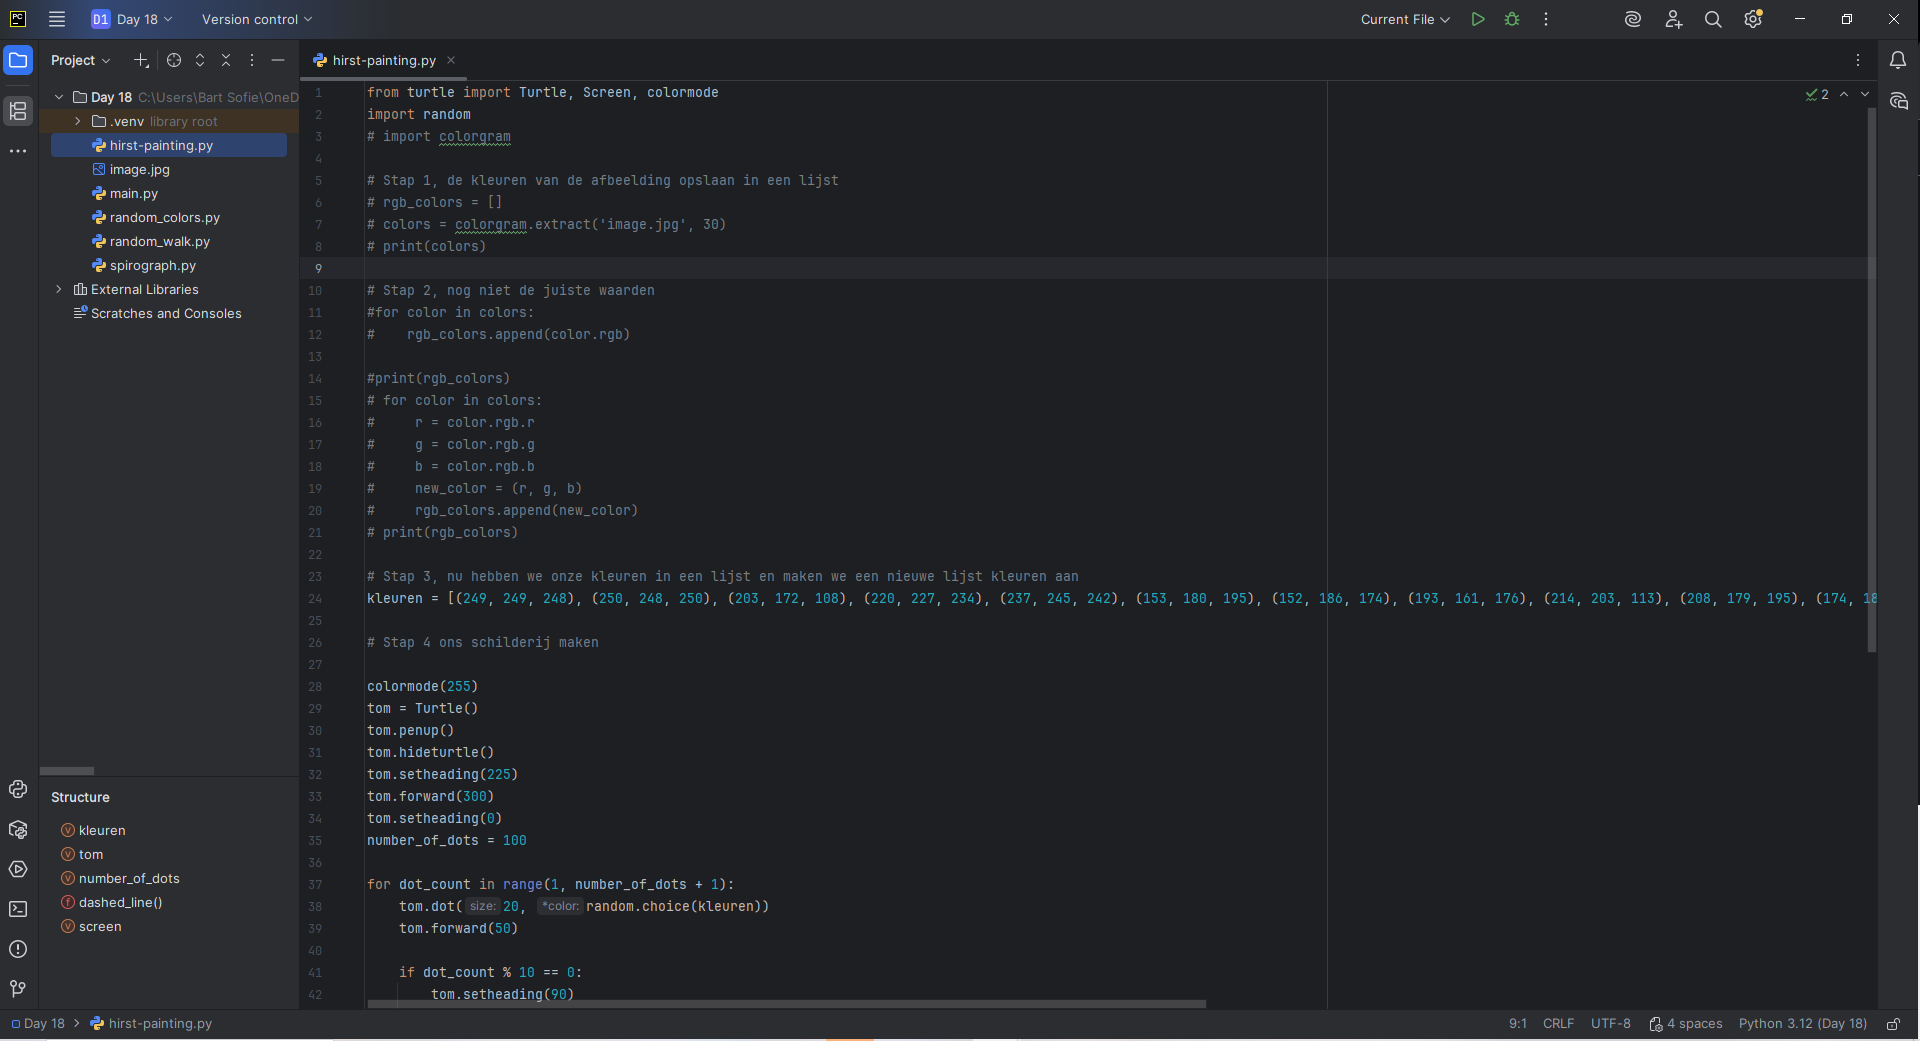
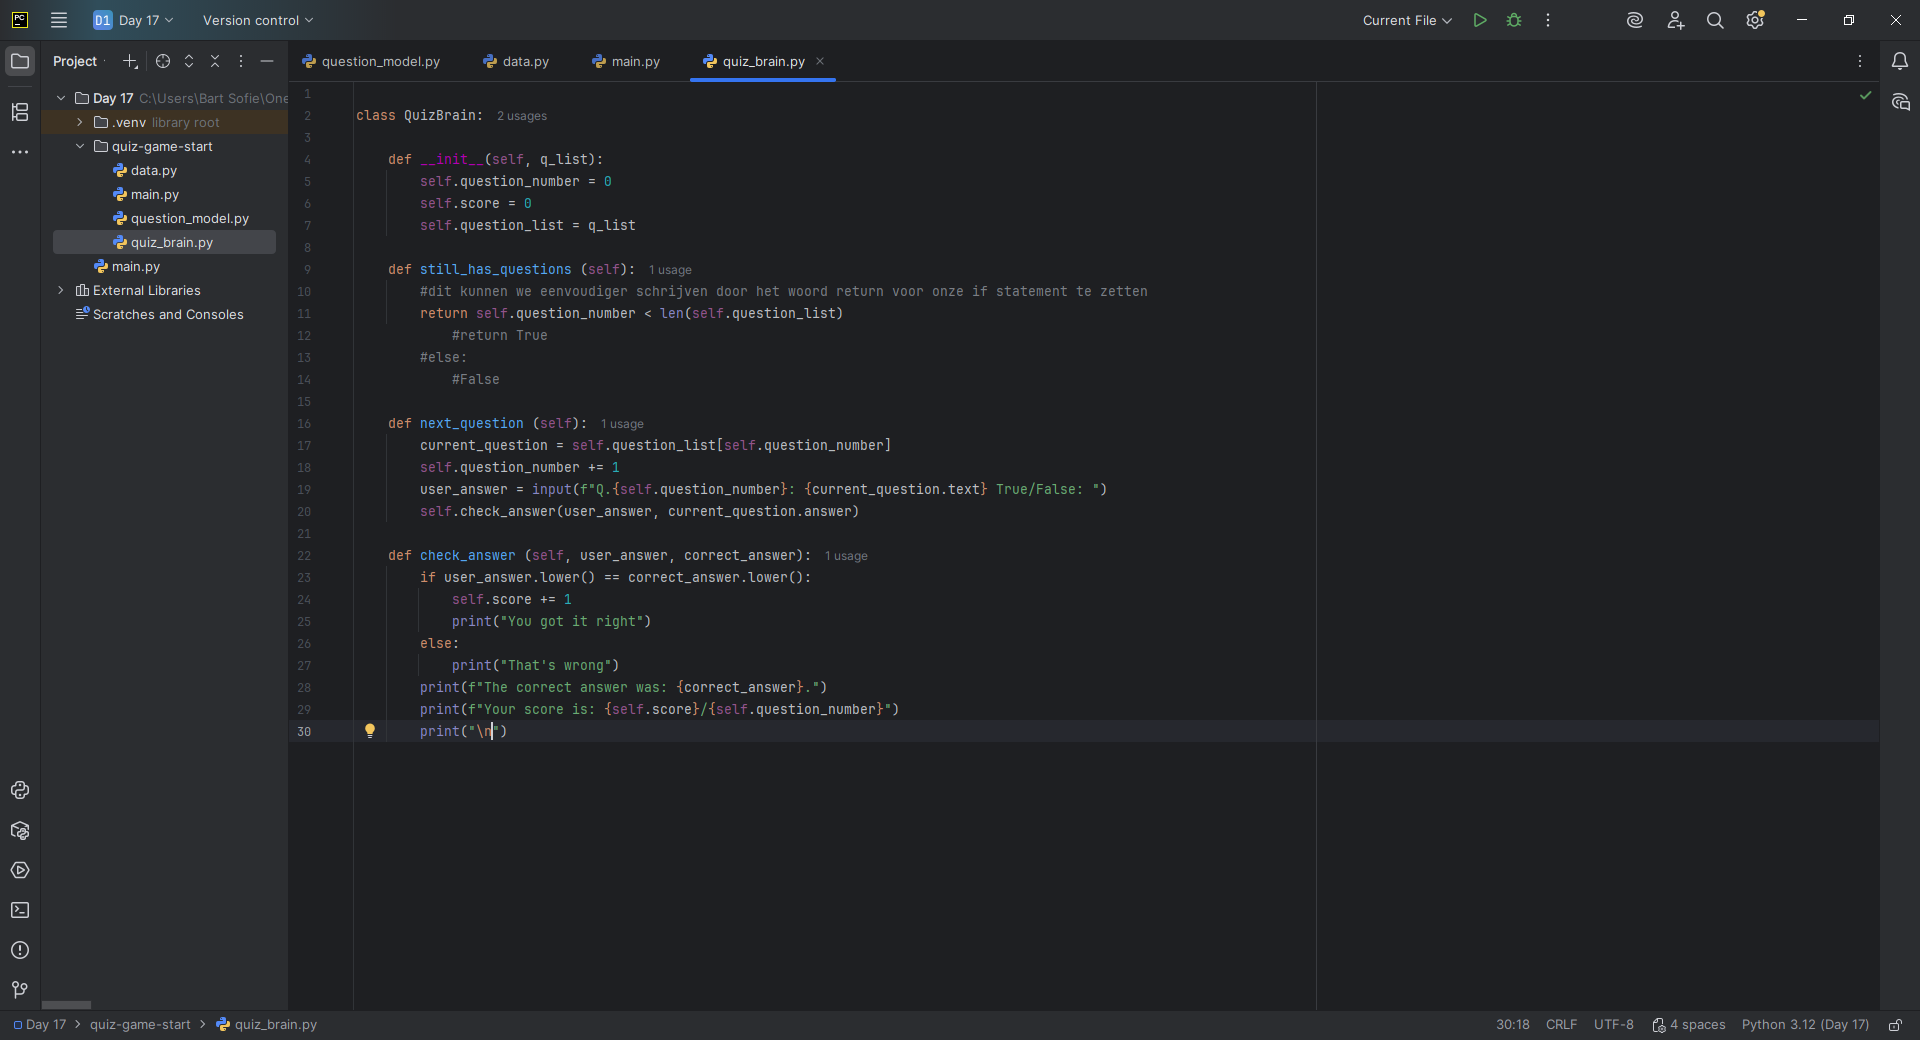
upload dag 19 + aanpassingen dag 17 en dag 18

diff --git a/Logs/25W49.md b/Logs/25W49.md
@@ -1,31 +1,31 @@
 ### 🗓 Week 25W49 (01.12.25 – 04.12.25)
 
 ## 📅 Maandag 01/12
-*Start:* 14:00 | *Einde:* 20:00 | *Dag:* 34
-*Onderwerp:* Tekenen, Tuple, random_walk, spirograph, dots tekenen
+*Start:* 14:00 | *Einde:* 20:00 | *Dag:* 17 <br>
+*Onderwerp:* Quiz Game
 *Printscreen*
 ![Python omgeving](../images/december_2025/maandag_01_december.PNG)
 
 ## 📅 Dinsdag 02/12
-*Start:* 00:00 | *Einde:* 00:00 | *Dag:* 35 
-*Onderwerp:* ...
+*Start:* 00:00 | *Einde:* 00:00 | *Dag:* 18 <br>
+*Onderwerp:*    Tekenen, Tuple, random_walk, spirograph, dots tekenen
 *Printscreen*
-![Python omgeving](../images/oktober_2025/)
+![Python omgeving](../images/december_2025/maandag_02_december.PNG)
 
 ## 📅 Woensdag 03/12
-*Start:* 00:00 | *Einde:* 00:00 | *Dag:* 36 
-*Onderwerp:* ...
+*Start:* 00:00 | *Einde:* 00:00 | *Dag:* 19 <br>
+*Onderwerp:* Schildpadden Race
 *Printscreen*
-![Python omgeving](../images/oktober_2025/)
+![Python omgeving](../images/december_2025/maandag_03_december.PNG)
 
 ## 📅 Donderdag 04/12
-*Start:* 00:00 | *Einde:* 00:00 | *Dag:* 37
+*Start:* 00:00 | *Einde:* 00:00 | *Dag:* 
 *Onderwerp:* ...
 *Printscreen*
 ![Python omgeving](../images/oktober_2025/)
 
 ## 📅 Vrijdag 05/12
-*Start:* 00:00 | *Einde:* 00:00 | *Dag:* 38
+*Start:* 00:00 | *Einde:* 00:00 | *Dag:* 
 *Onderwerp:* ...
 *Printscreen*
 ![Python omgeving](../images/oktober_2025/)

diff --git a/LOGBOOK.md b/LOGBOOK.md
@@ -16,7 +16,7 @@
 | 25W46 | 10.11 – 14.11 | Examen (Databases + IT-Organisatie & teamcommunicatie )                                     | [Bekijk week 25W46](Logs/25W46.md) |
 | 25W47 | 17.11 – 21.11 | --------  Verlof -----------                                                                | [Bekijk week 25W47](Logs/25W47.md) |
 | 25W48 | 24.11 – 28.11 | Deze week alle lessen gereviewd van dag 1 tot en met dag 15                                 | [Bekijk week 25W48](Logs/25W48.md) |
-| 25W49 | 01.12 – 05.12 | Tekenen, tuple                                                                                | [Bekijk week 25W49](Logs/25W49.md) |
+| 25W49 | 01.12 – 05.12 | Quiz Game, Tekenen + tuple, schildpadden Race,                                              | [Bekijk week 25W49](Logs/25W49.md) |
 | 25W50 | 08.12 – 12.12 | ............................ | [Bekijk week 25W50](Logs/25W50.md) |
 | 25W51 | 15.12 – 19.12 | ............................ | [Bekijk week 25W51](Logs/25W51.md) |
 | 25W52 | 22.12 – 26.12 | ............................ | [Bekijk week 25W52](Logs/25W52.md) |
